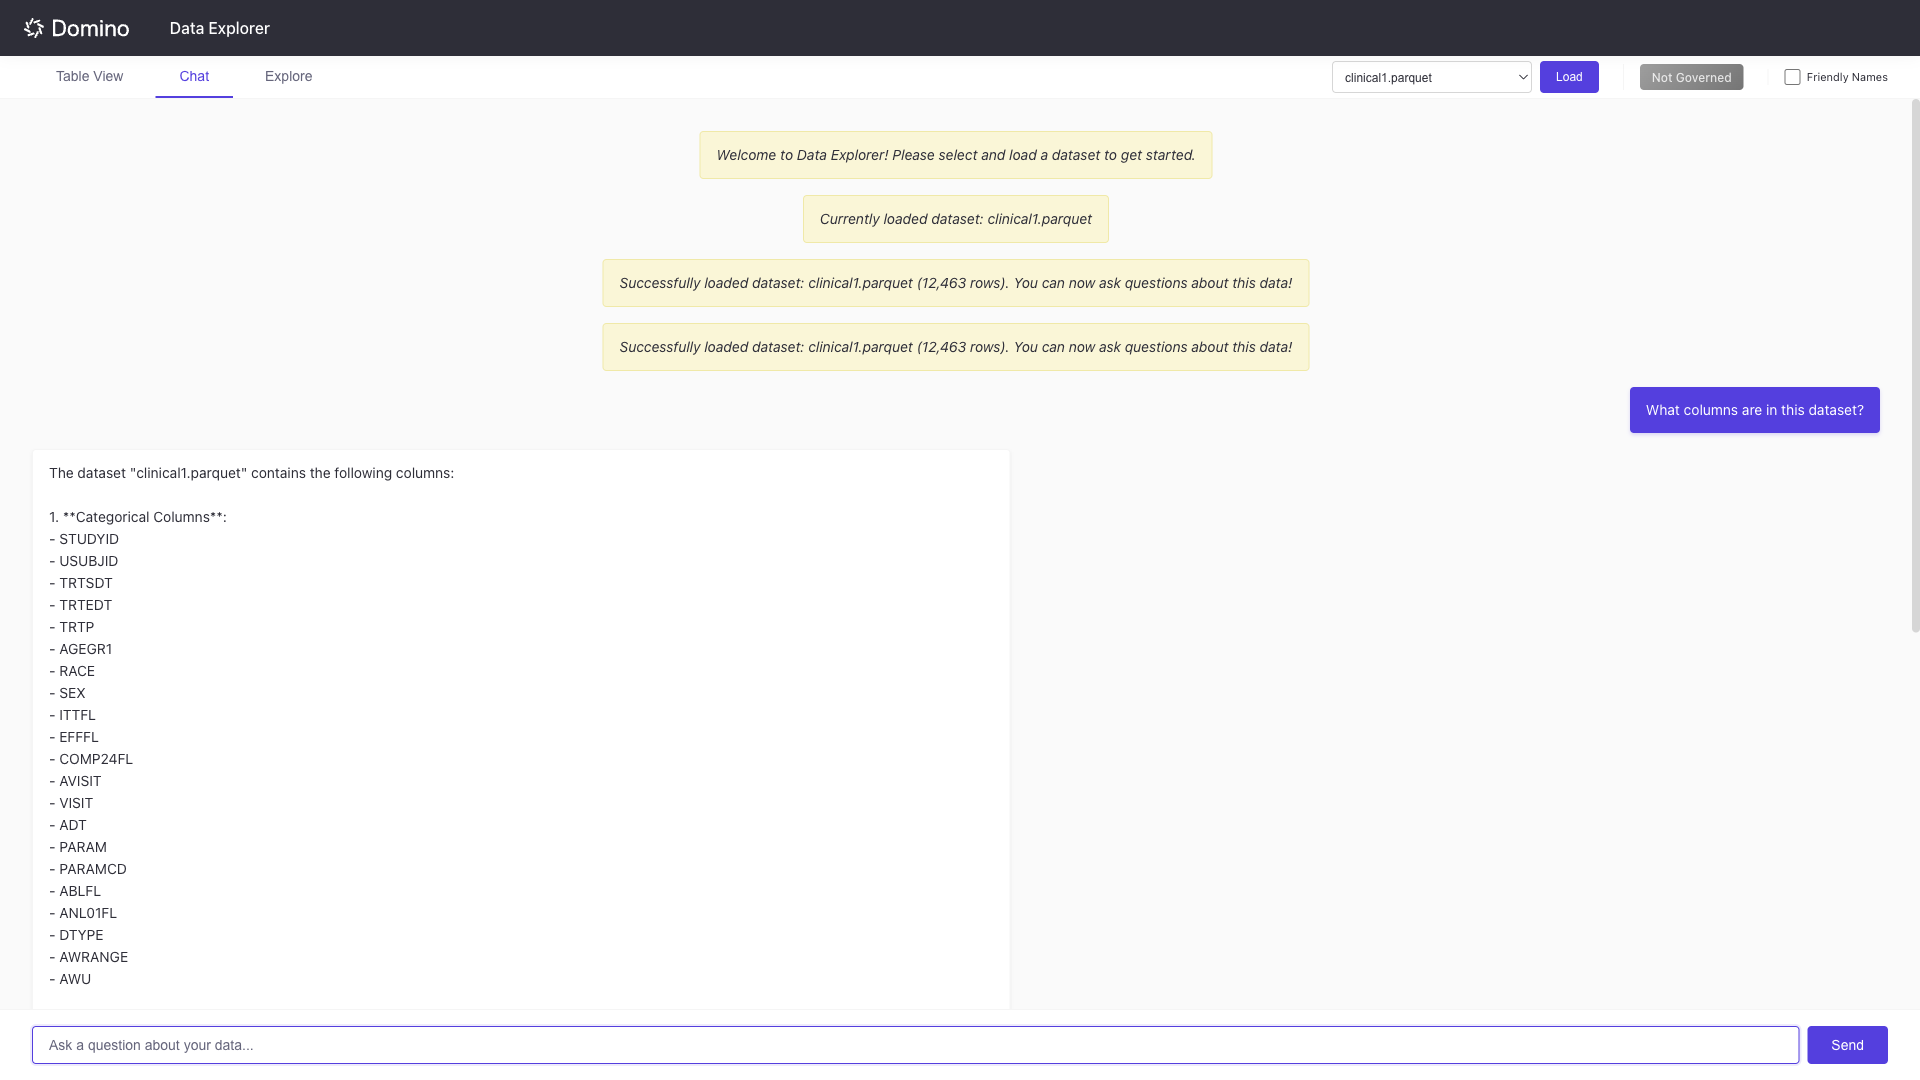
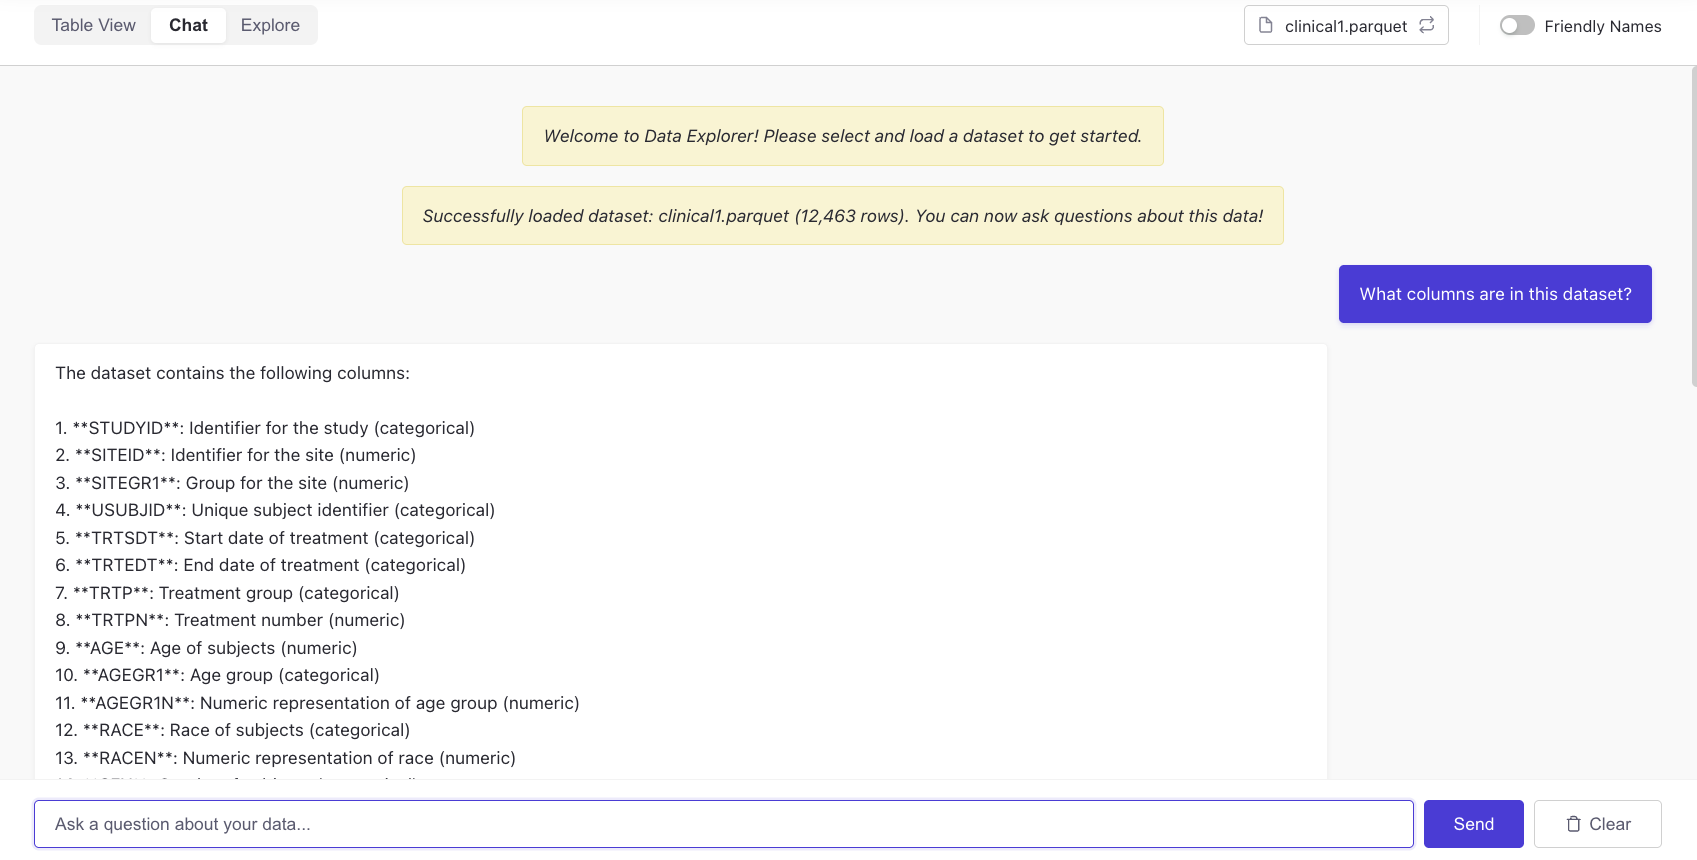
Remove mentions of governance and findings and redo all screenshots remove unused ones (#65) (#66)
This PR removes governance information from the .md files and redoes the
images there as well, because they show governance features

https://dominodatalab.atlassian.net/browse/DOM-79108

diff --git a/README.md b/README.md
@@ -88,12 +88,6 @@ You can modify this file to add labels for your own datasets. The mappings apply
 
 Configure the following environment variables in your Domino project settings:
 
-#### Required for Governance Features
-
-| Variable | Description |
-|----------|-------------|
-| `DOMINO_API_HOST_OVERD` | Your Domino deployment URL (e.g., `https://your-domino-deployment.com`). This overrides the auto-detected `DOMINO_API_HOST` when set. |
-
 #### Optional: Backend Request and Load Limits
 
 | Variable | Default | Description |
@@ -272,47 +266,6 @@ Ask the chatbot about the columns in your dataset or request specific analyses:
 - "What are the value counts for ARM?"
 - "Show me a correlation matrix for numeric columns"
 
-## Use Domino Governance
-
-Clinical Data Explorer integrates with Domino Governance to help you create findings for governed datasets. When a dataset is attached to a governance bundle, you can submit findings directly from the app.
-
-### Governed Datasets
-
-When you load a dataset that's part of a Domino governance bundle, a green **Governed** badge appears in the header. This indicates the file is being tracked for compliance and audit purposes.
-
-![Governed dataset indicator](docs_assets/09-governance-indicator.png)
-
-The **Create Finding** button appears when a governed dataset is loaded. For non-governed files, a gray "Not Governed" badge appears instead and the Create Finding button is hidden.
-
-### Create a Finding
-
-To submit a finding for a governed dataset:
-
-1. Load a governed dataset (the **Governed** badge should appear)
-2. Optionally apply filters to focus on specific data issues
-3. Click **Create Finding**
-4. Fill in the required fields:
-   - **Finding Name**: A descriptive name for the issue
-   - **Severity**: Critical, High, Medium, Low, or Informational
-   - **Approver**: Select from designated approvers for the bundle
-   - **Assignee**: Who should address the finding
-5. Optionally add:
-   - **Evidence/Approval**: Link to a specific approval workflow
-   - **Stage**: The governance stage (e.g., Self QC, Double Programming)
-   - **Description**: Details about the finding
-   - **Due Date**: When the finding should be resolved
-
-![Create Finding modal](docs_assets/10-create-finding-modal.png)
-
-When you submit a finding, the current data view URL (including any active filters) is automatically appended to the description. This creates a permalink that allows reviewers to see exactly what data you were viewing when you identified the issue.
-
-### Requirements
-
-Governance features require:
-- `DOMINO_API_HOST_OVERD` environment variable set to your Domino deployment URL
-- The dataset file must be attached to an active governance bundle in Domino
-- Appropriate permissions to create findings in the bundle
-
 ## Troubleshooting
 
 ### "No datasets found"
@@ -326,11 +279,6 @@ Governance features require:
 - For cloud providers, verify your `LLM_API_KEY` is valid
 - For local Ollama, confirm the service is running and `LLM_BASE_URL` is correct
 
-### Governance features unavailable
-
-- Set `DOMINO_API_HOST_OVERD` to your Domino deployment URL
-- Verify your API credentials have appropriate permissions
-
 ### Filters not persisting
 
 - Ensure "Deep linking and query parameters" is enabled in your Domino App settings
@@ -343,7 +291,7 @@ Run `make test` before committing. Run `make test-all` before opening a PR.
 - `make test-mocked-integration` — Playwright browser tests with mocked backend responses; no Flask/MCP servers needed
 - `make test-e2e` — Playwright smoke test that walks the whole app with local Flask/MCP servers (~60–90s)
 - `make test-all` — contract, real e2e, unit/MCP, and mocked integration layers
-- `make test-external` — tests that hit real external services (governance, chat). Run these before shipping a change that touches governance or chat.
+- `make test-external` — tests that hit real external services (chat). Run these before shipping a change that touches chat.
 
 First-time setup:
 
@@ -357,4 +305,4 @@ uv run --locked playwright install chromium     # only needed for make test-e2e
 - Add one step to `tests/e2e/test_smoke.py` that exercises the UI path. This is the primary safety net.
 - Only add an MCP contract test if the feature introduces a new *category* of backend behavior (not a new endpoint within an existing category).
 - Do NOT add unit tests for internal helpers; prefer integration-level tests.
-- If the feature depends on governance, chat, or another external service, mark the test `@pytest.mark.external`.
+- If the feature depends on chat or another external service, mark the test `@pytest.mark.external`.

diff --git a/ARCHITECTURE.md b/ARCHITECTURE.md
@@ -61,9 +61,7 @@ The Flask backend uses Domino APIs when it needs to:
 - list project datasets and dataset files
 - browse or load dataset snapshots
 - discover and read NetApp volume files
-- check whether a loaded file is attached to a governance bundle
-- create governance findings
-- resolve current-user and collaborator information for governance workflows
+- resolve current-user information
 
 ### Authorization and Identity
 
@@ -167,19 +165,19 @@ Flask backend
   returns dataset metadata to the UI
 
 Browser
-  initializes table, charts, filters, and governance status
+  initializes table, charts, and filters
 ```
 
 The load path supports Domino datasets, dataset snapshots, dataset
 file deeplinks, NetApp volumes, and NetApp volume files. Snapshot identity is preserved where
-possible so the app can reload or govern the exact file revision the user chose.
+possible so the app can reload the exact file revision the user chose.
 
 Chat history is cleared only for the browser session that loaded the dataset,
 and only after the MCP server has successfully loaded the new file. A failed
 dataset load should leave the existing chat context alone. The reset matters
 because chat history is tied to the previously loaded dataset: if a user switches
 from one dataset to another, old questions, answers, and tool results can refer
-to columns, values, filters, or findings that no longer apply. Clearing the
+to columns, values, or filters that no longer apply. Clearing the
 session's chat history makes the next chat start from the newly loaded dataset
 instead of carrying assumptions from the old one.
 
@@ -202,12 +200,6 @@ MCP server
 Browser
   renders the page, chart, summary, or chat response
 ```
-
-## Governance Flow
-
-The browser uses file information from the Flask backend to check for matching
-governance bundles. If the file is governed, the UI can create a finding. The
-Flask backend submits the finding to Domino Governance.
 
 ## Permalinks And Deep Links
 
